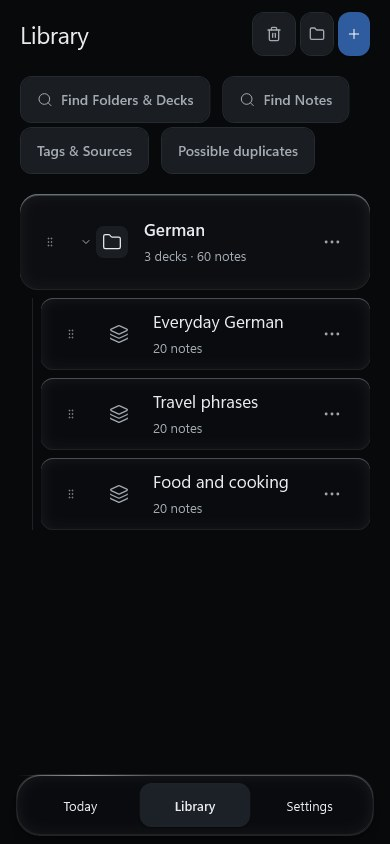
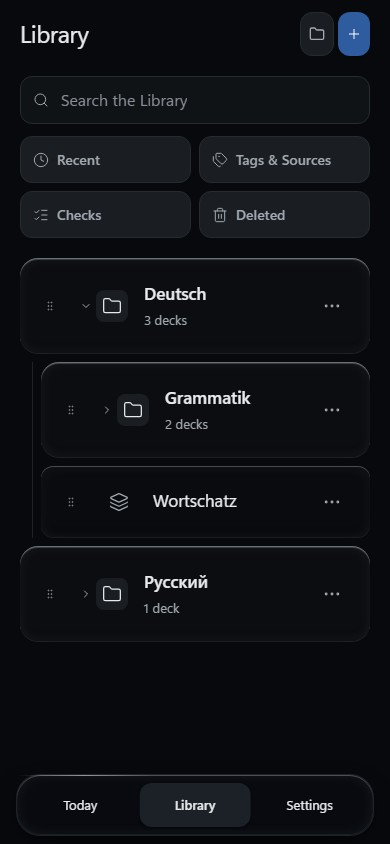
docs: retake the README Library screenshot

diff --git a/README.md b/README.md
@@ -26,7 +26,7 @@
   <a href="docs/images/today-mobile.jpg"><img src="docs/images/today-mobile.jpg" width="23%" alt="Daily plan on iPhone: review counts, estimated time and study decks"></a>
   <a href="docs/images/study-mobile.jpg"><img src="docs/images/study-mobile.jpg" width="23%" alt="Recognition review on iPhone: German word, revealed meaning and four ratings"></a>
   <a href="docs/images/practice-mobile.jpg"><img src="docs/images/practice-mobile.jpg" width="23%" alt="Typing practice on iPhone with answer feedback"></a>
-  <a href="docs/images/library-mobile.jpg"><img src="docs/images/library-mobile.jpg" width="23%" alt="Library on iPhone with an expanded German folder containing three vocabulary decks"></a>
+  <a href="docs/images/library-mobile.jpg"><img src="docs/images/library-mobile.jpg" width="23%" alt="Library on iPhone: search, shortcuts to Recent, Tags &amp; Sources, Checks and Deleted, and an open German folder holding a subfolder and a deck"></a>
 </p>
 
 <p align="center">
